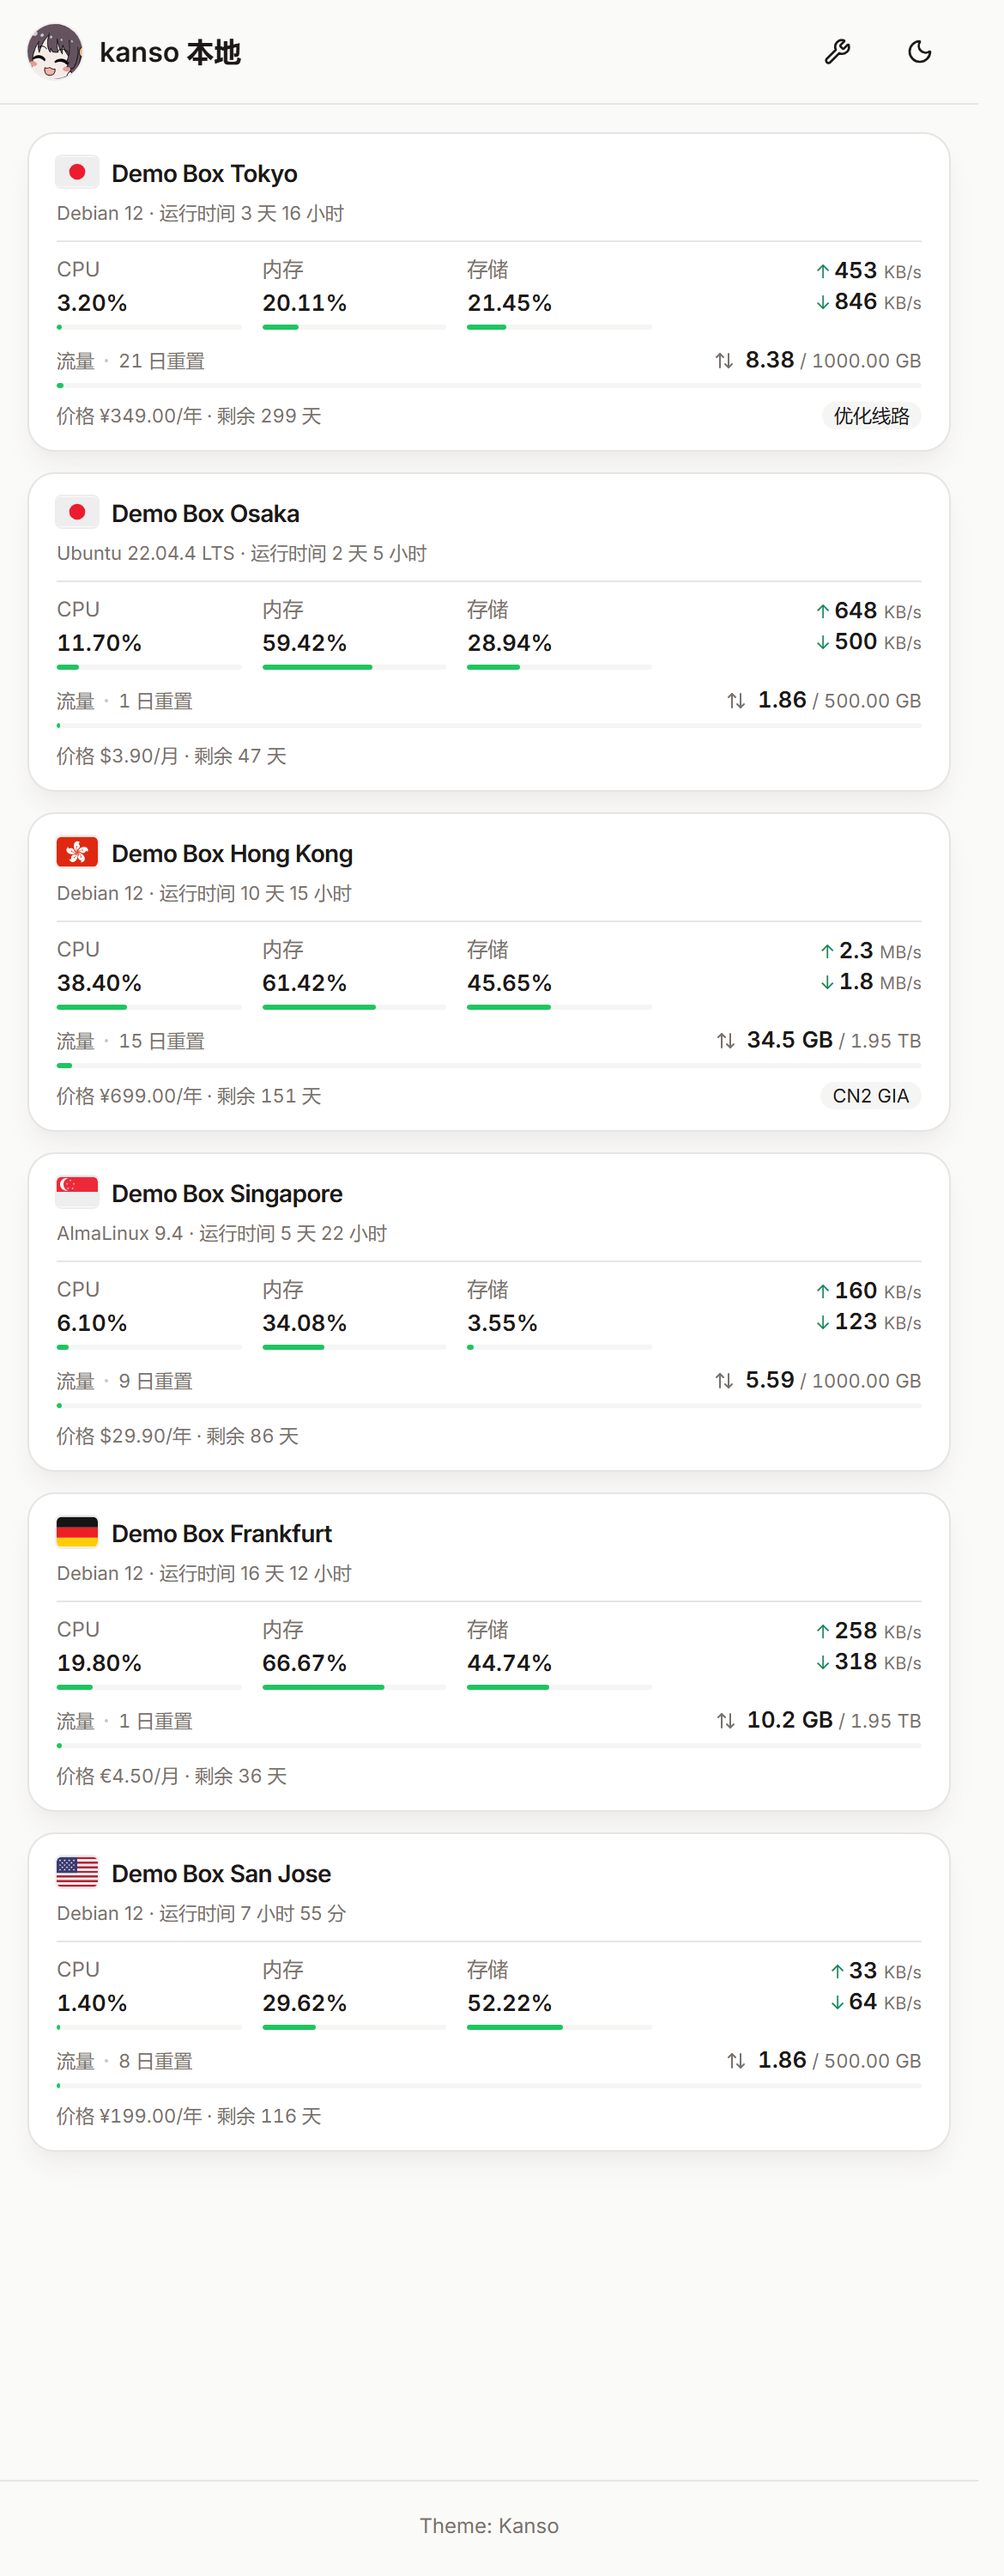
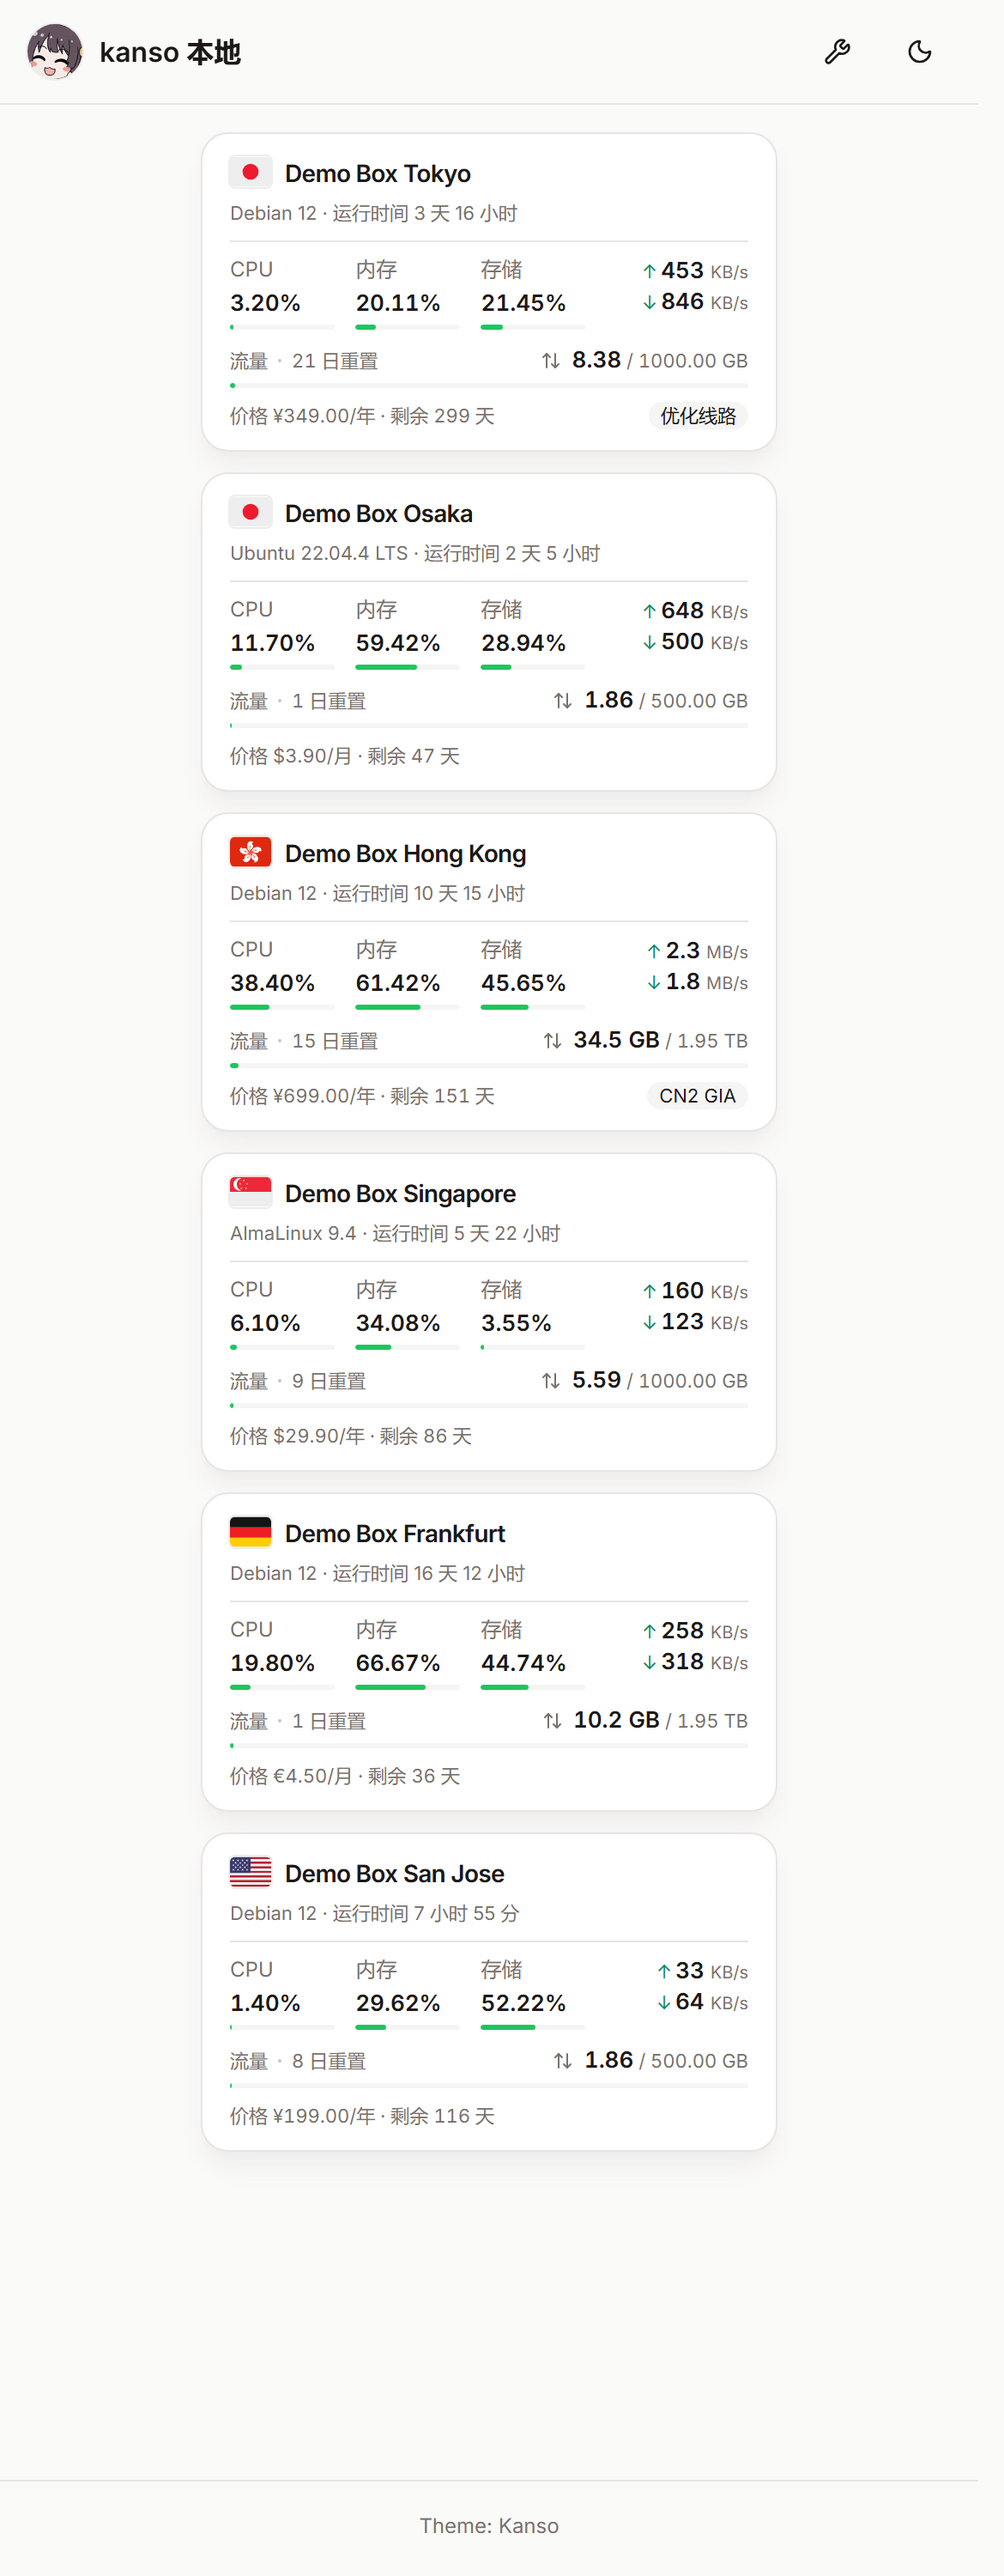
README：预览三件套按 1.8.3 的版式重拍（手机档仍是单列，卡片恒 336 居中）

diff --git a/README.md b/README.md
@@ -14,7 +14,7 @@
 
 | 亮色 | 暗色 | 手机 |
 |:---:|:---:|:---:|
-| ![预览](preview-light.png?v=13) | ![暗色](preview-dark.png?v=13) | ![手机](preview-mobile.png?v=13) |
+| ![预览](preview-light.png?v=14) | ![暗色](preview-dark.png?v=14) | ![手机](preview-mobile.png?v=14) |
 
 
 ## 关于备注
